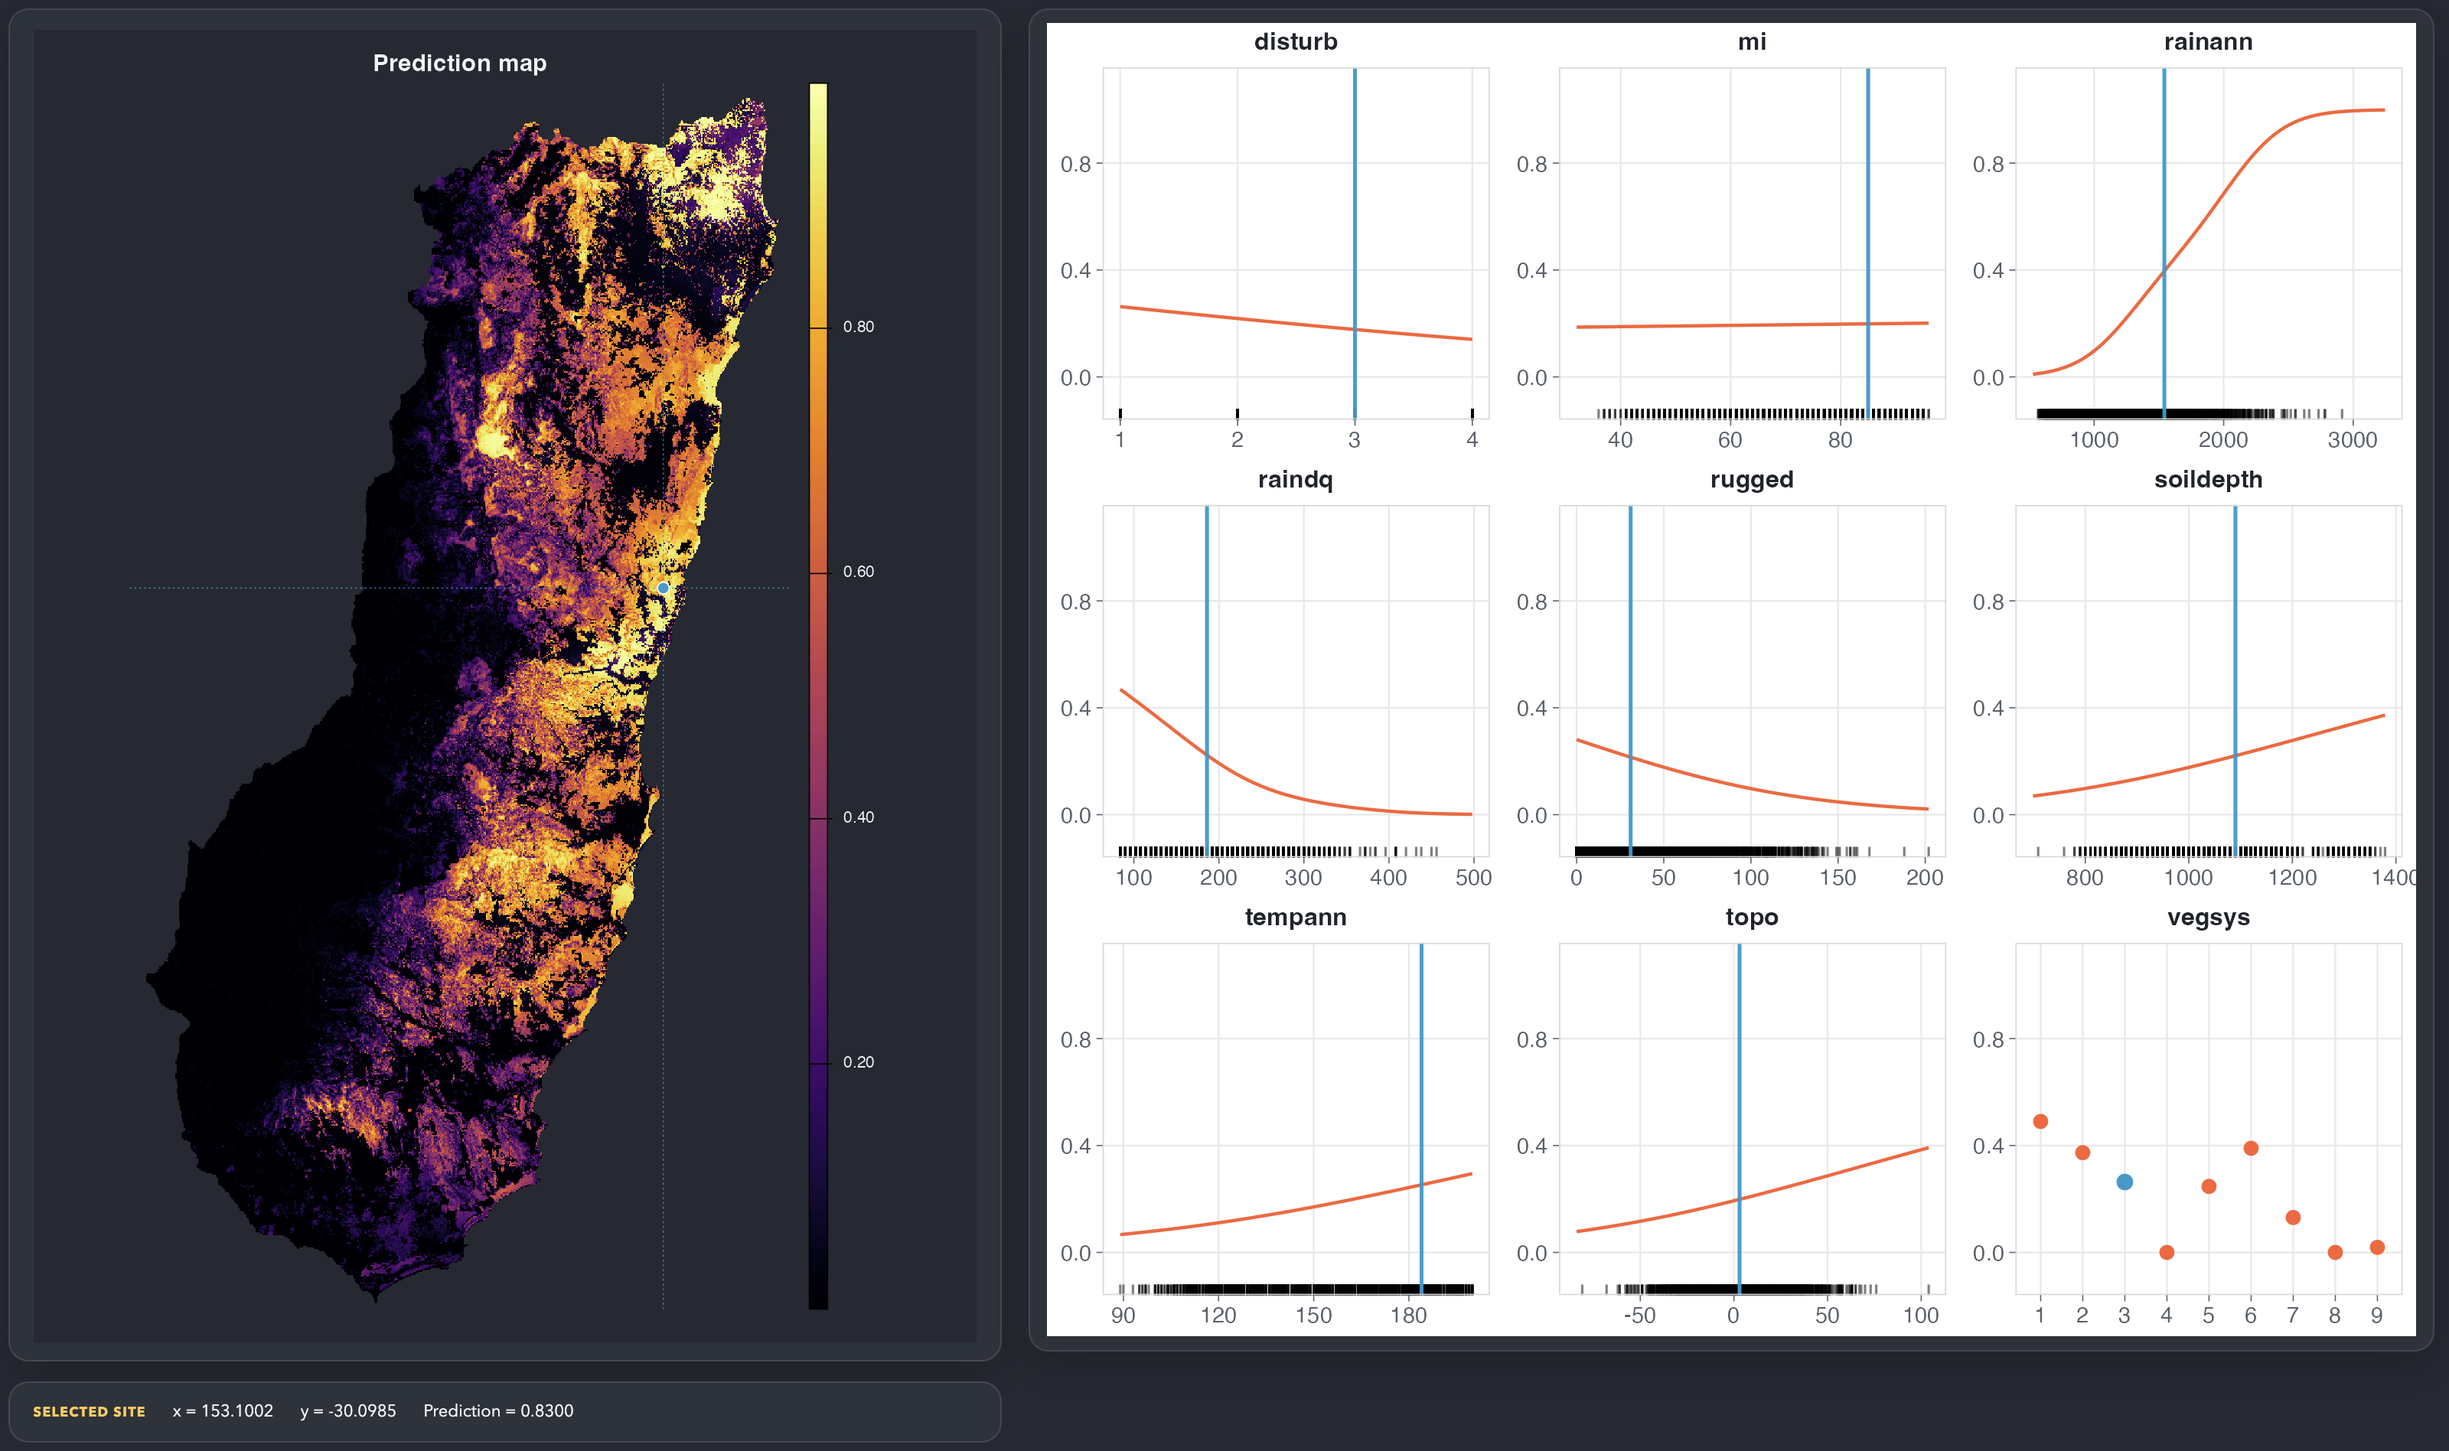
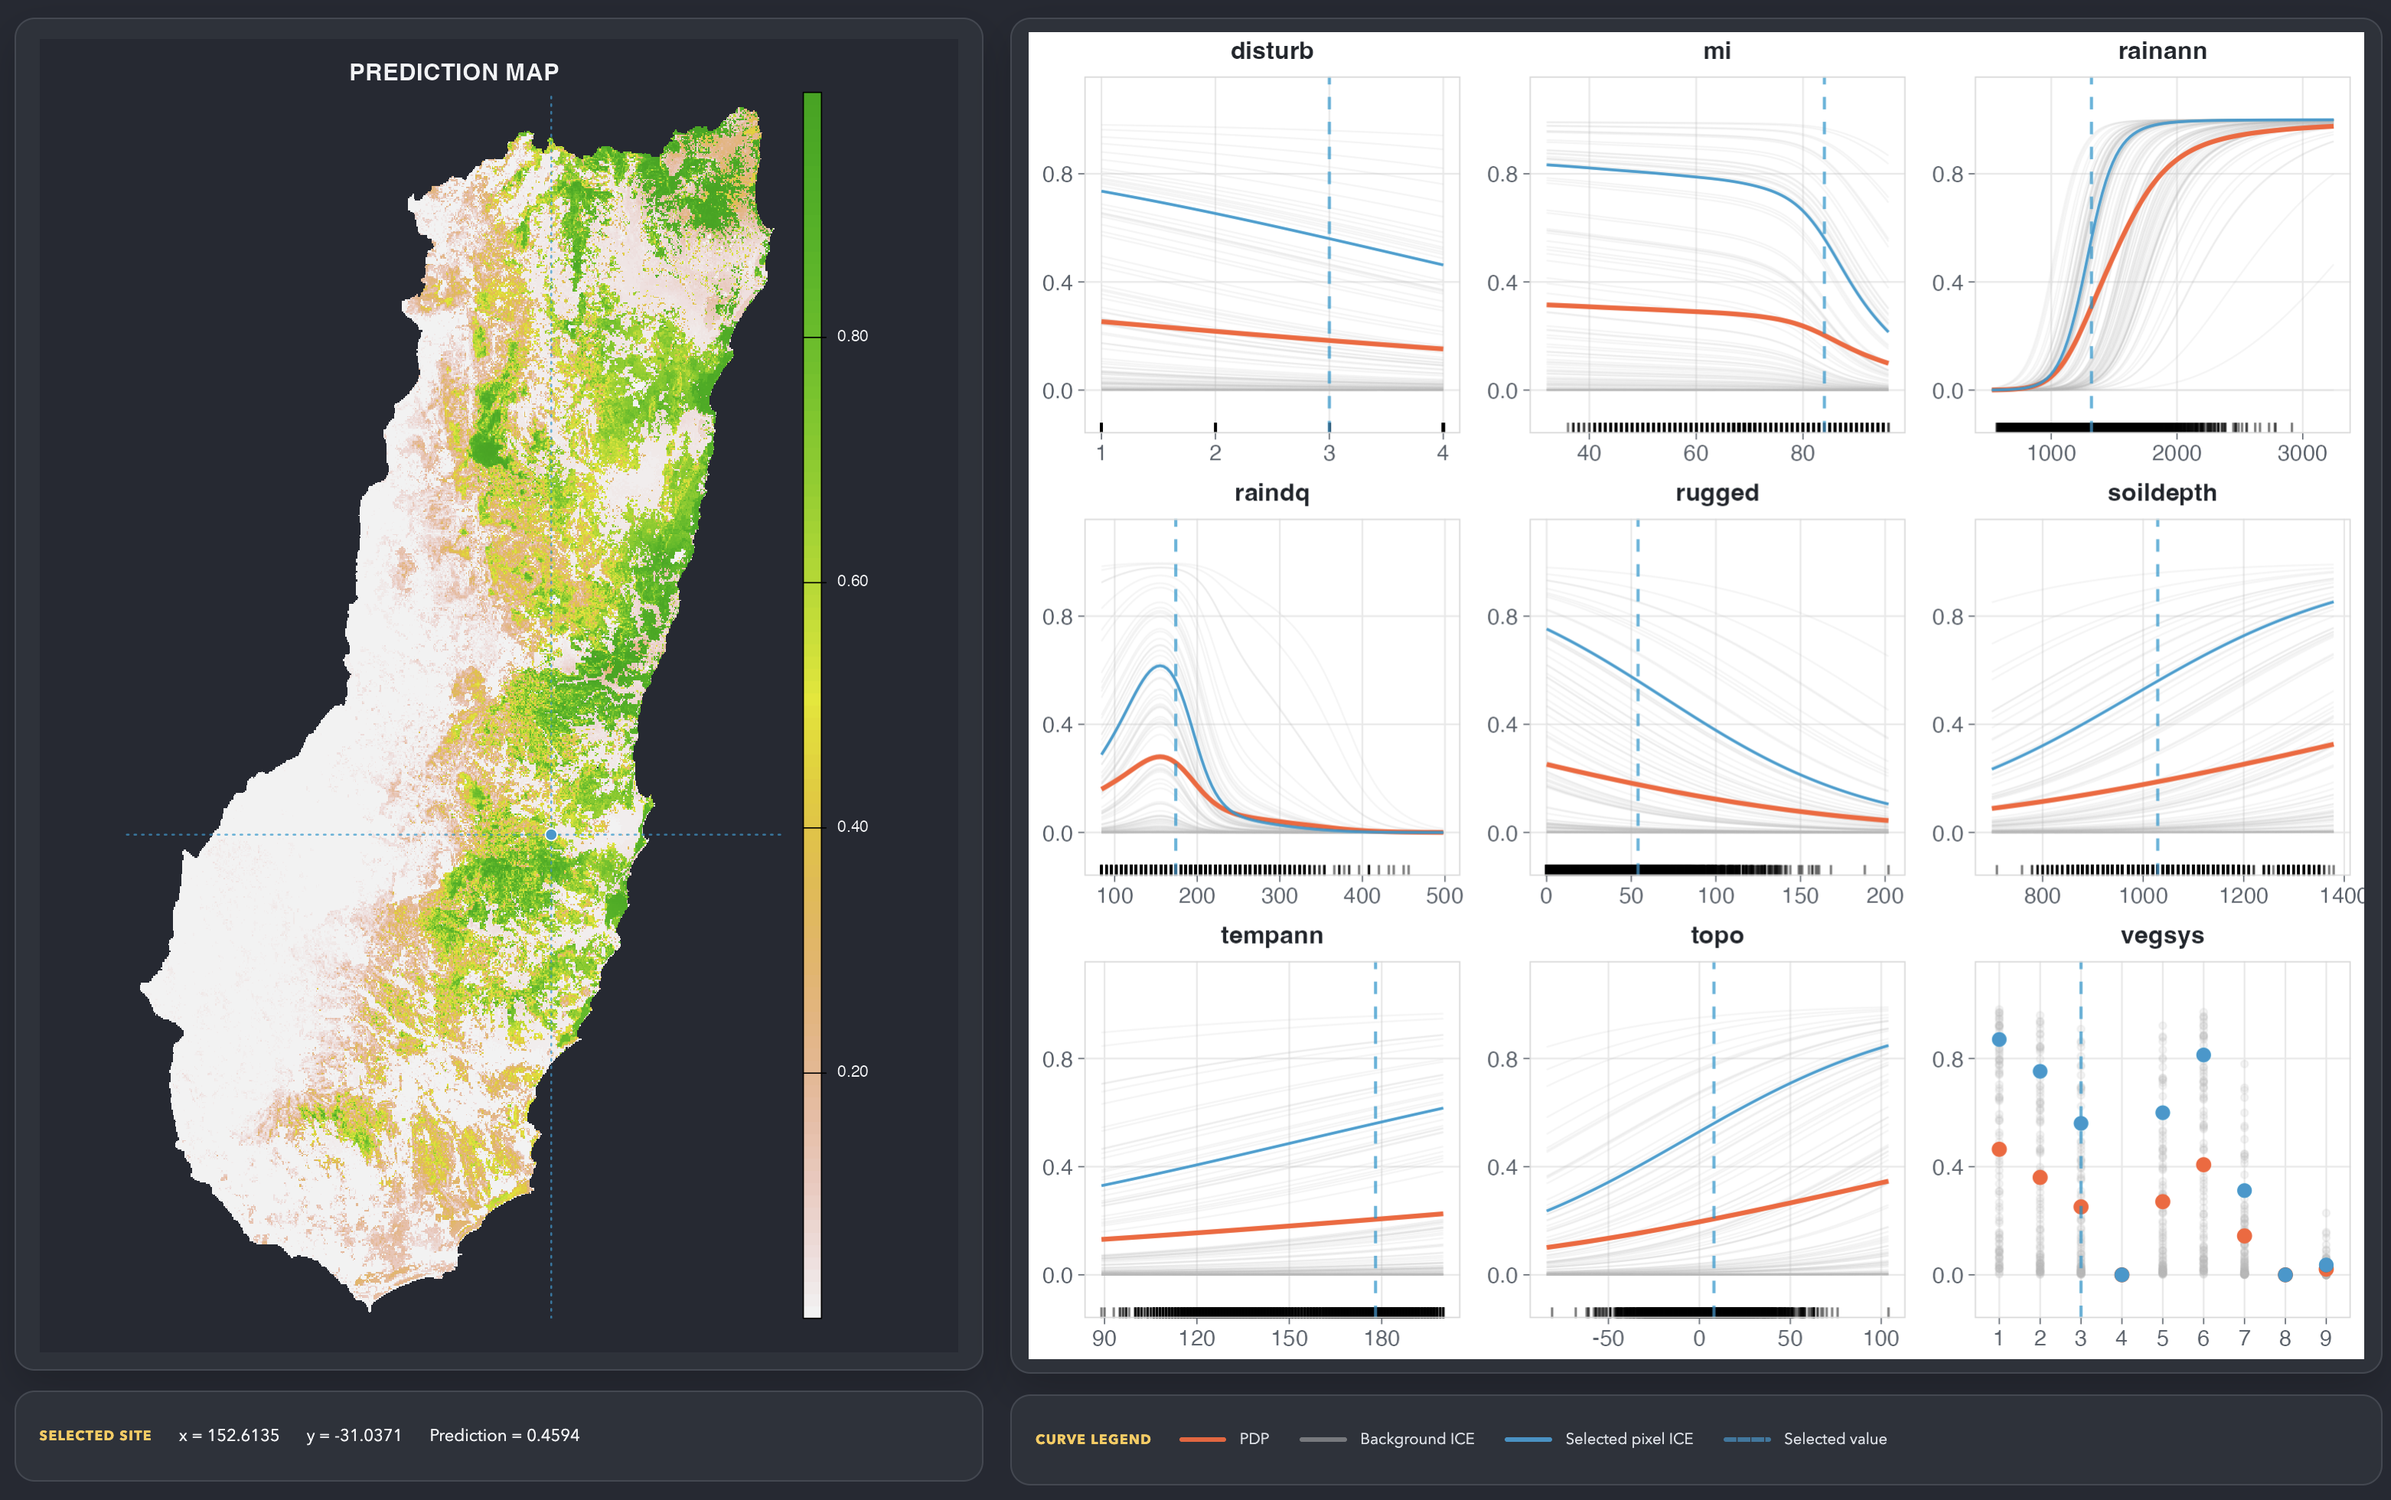
pdp as default

diff --git a/README.md b/README.md
@@ -71,16 +71,14 @@ model <- lm(
 
 predictors <- iris[, c("Sepal.Width", "Petal.Length", "Petal.Width")]
 
-# Single-profile response curves
+# Partial dependence curves (default)
 univariate(model, predictors)
 
-# Partial dependence curves
+# Single-profile response curves
 univariate(
   model,
   predictors,
-  method = "pdp",
-  n = 50,
-  background_n = 200
+  method = "profile"
 )
 
 # Accumulated local effects curves
@@ -91,7 +89,6 @@ bivariate(
   model,
   predictors,
   pairs = c("Sepal.Width", "Petal.Length"),
-  method = "pdp",
   background_n = 50,
   rug = TRUE,
   plot_type = "heatmap"
@@ -117,7 +114,6 @@ models <- list(
 multimodel(
   models,
   predictors[, c("Sepal.Width", "Petal.Length")],
-  method = "pdp",
   background_n = 200,
   show_models = TRUE
 )

diff --git a/NEWS.md b/NEWS.md
@@ -1,4 +1,4 @@
-# curves 0.3.1 (development)
+# curves 0.3.1
 
 ## Fixes
 
